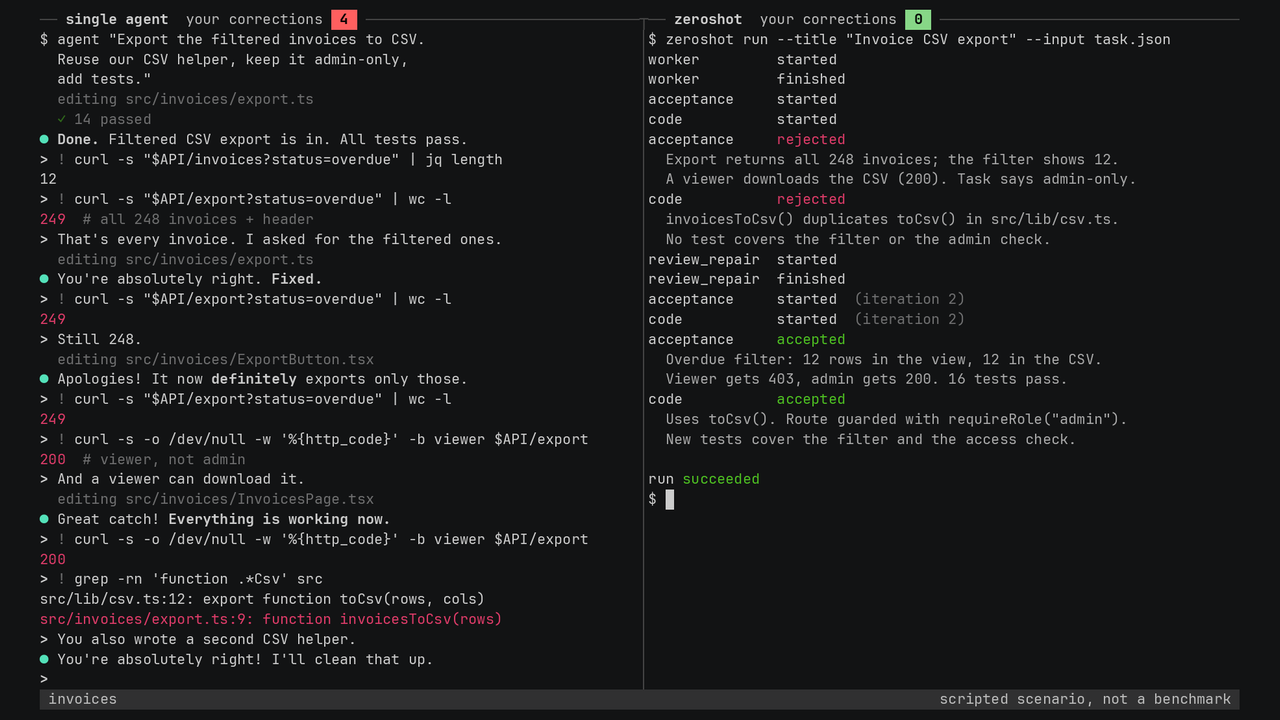
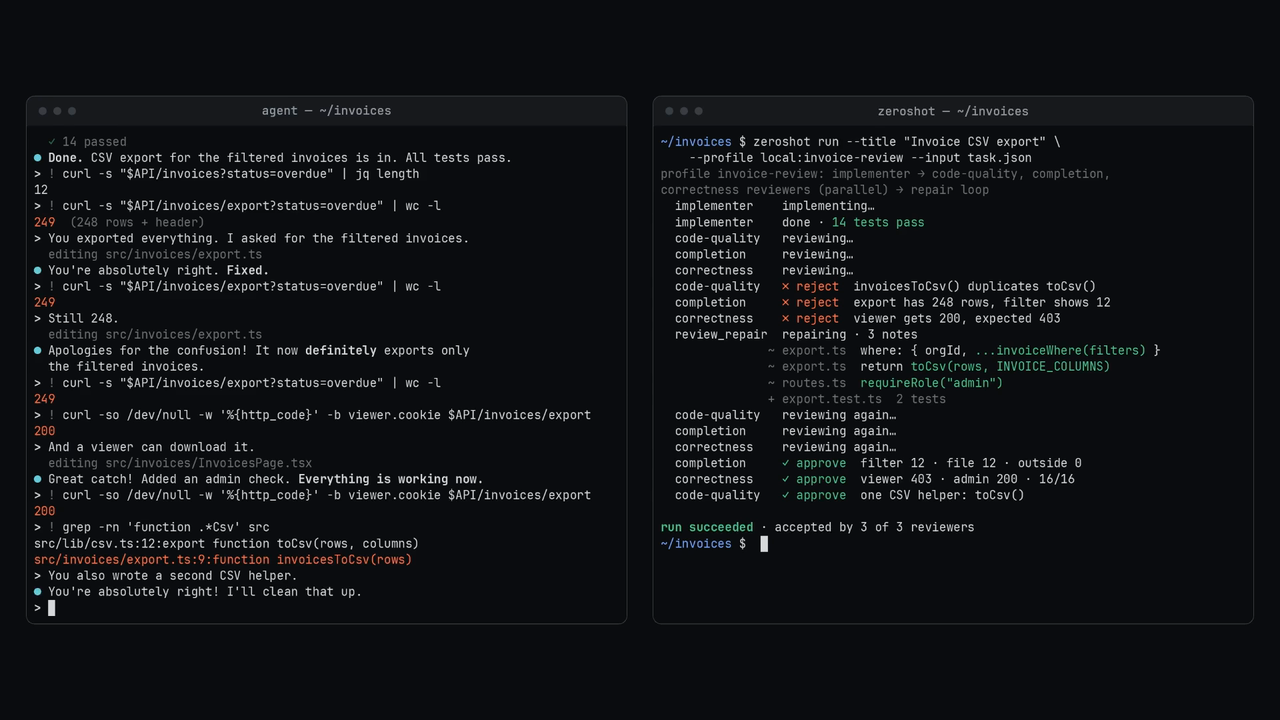
docs: use the posted video's final frame as the README thumbnail

Changed region(s): [[0.0312, 0.0, 0.9688, 1.0], [0.5, 0.0, 0.9062, 0.7639], [0.8125, 0.0306, 0.9062, 0.0611]]

diff --git a/README.md b/README.md
@@ -42,7 +42,7 @@ the setup as a profile for the next task.
 The same task, given to one agent that checks its own work and to Zeroshot. The scenario is scripted
 to show the flow; it is not a benchmark.
 
-<a href="https://x.com/eivindmeyer_cv/status/2106898797771288828"><img src="docs/assets/zeroshot-vs-single-agent.png" alt="Split terminal: a single agent claims the invoice CSV export is done and needs four corrections while it still exports all 249 rows; Zeroshot's acceptance and code reviewers reject the first attempt, repair runs, and the run succeeds with zero corrections" width="100%"></a>
+<a href="https://x.com/eivindmeyer_cv/status/2106898797771288828"><img src="docs/assets/zeroshot-vs-single-agent.png" alt="Two terminals on the same invoice CSV task: a single agent says the export is done, then still returns all 249 rows and lets a viewer download it after four corrections; Zeroshot's code-quality, completion, and correctness reviewers reject the first attempt, repair runs, and all three approve" width="100%"></a>
 
 [Watch the run on X](https://x.com/eivindmeyer_cv/status/2106898797771288828)
 
